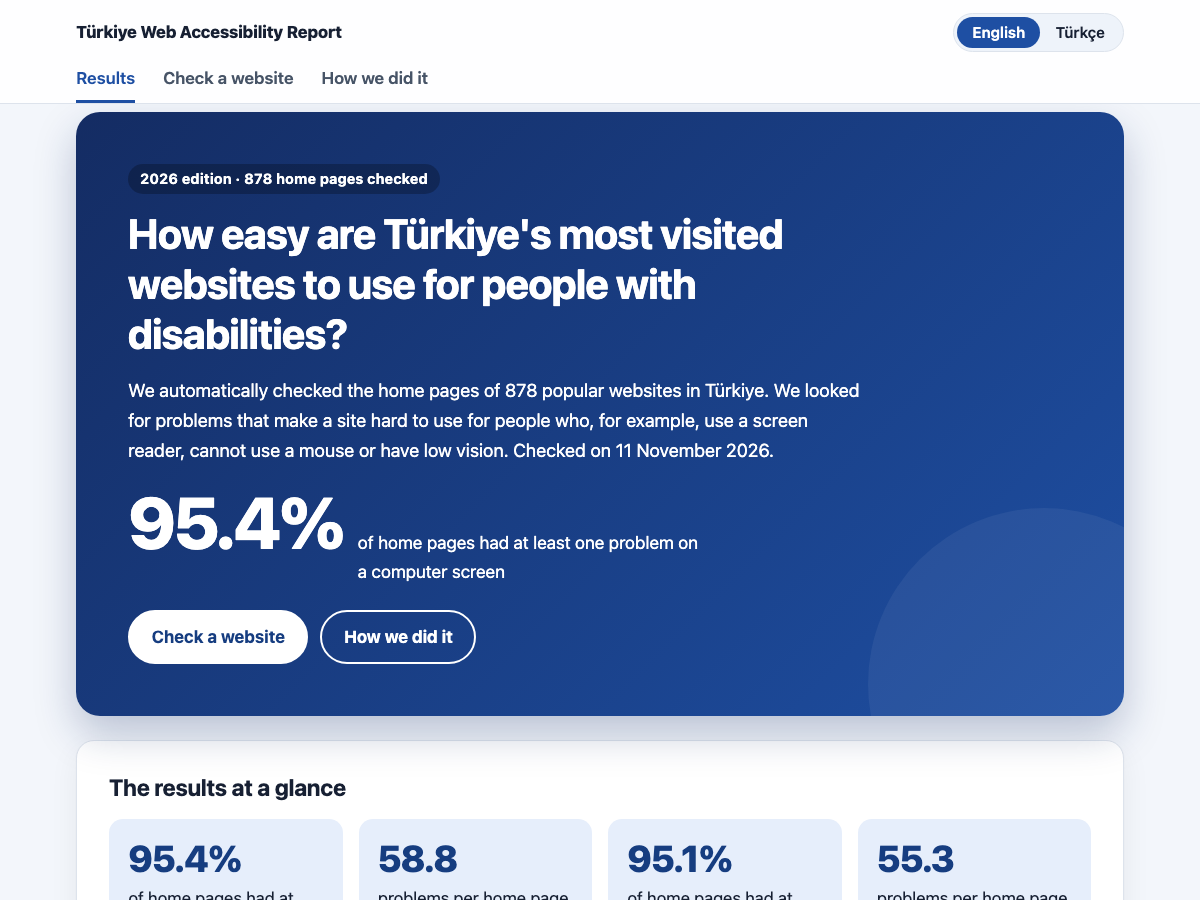
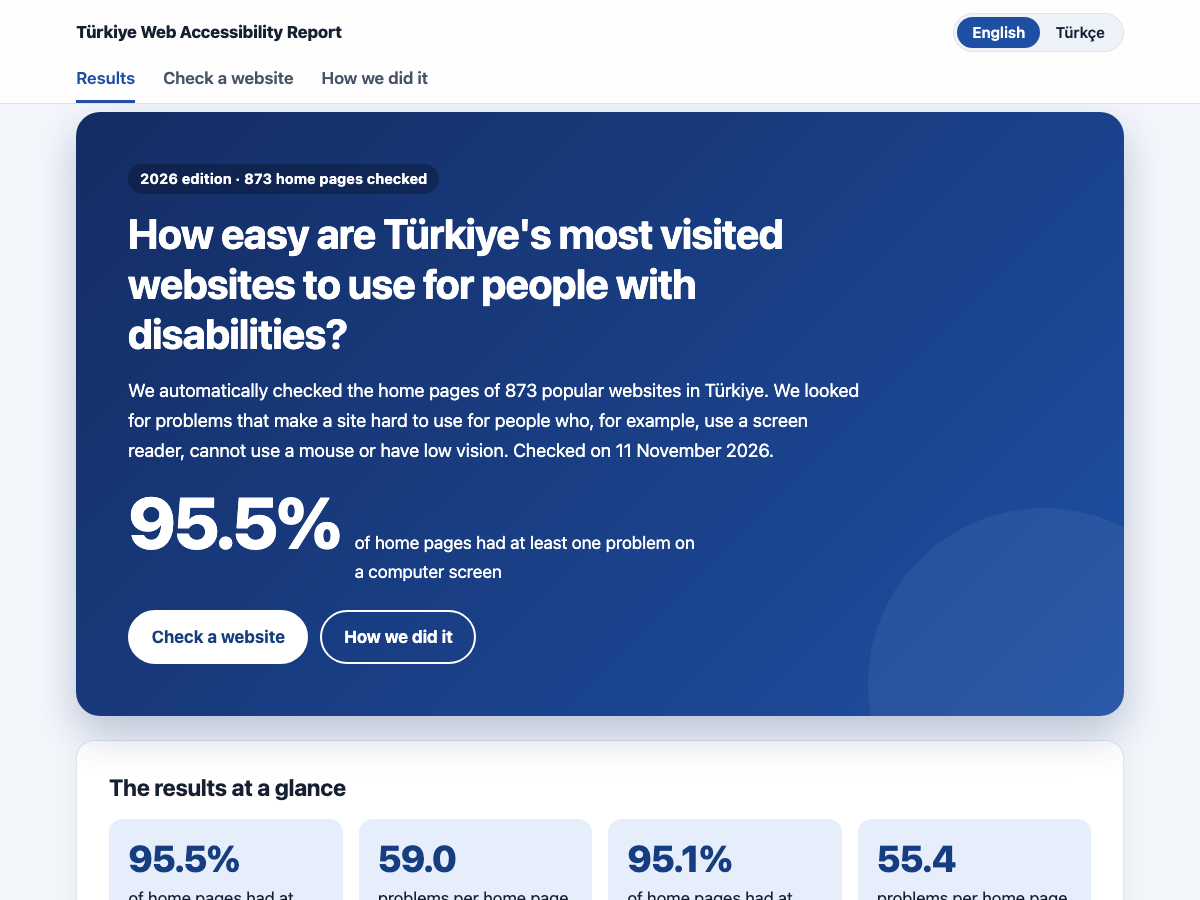
feat: remove personal-name domains from all published data
- data/exclude-hashed.csv keeps domains that are a person's name out of the list, scans and every
  published file, storing only SHA-256 hashes so the names never appear in the repository
- the 2026 data, report, lookup and run record no longer contain them (995 sites, 873 checked);
  methodology (EN + TR) and README explain the change and show the updated numbers
- tests for the domain hash and the hidden-domain filter

diff --git a/tests/A11yReport.Tests/Unit/DomainHashTests.cs b/tests/A11yReport.Tests/Unit/DomainHashTests.cs
@@ -1,0 +1,42 @@
+using A11yReport.Core.Sites;
+
+namespace A11yReport.Tests.Unit;
+
+public sealed class DomainHashTests
+{
+    [Fact]
+    public void Of_IsLowercaseSha256_AndIgnoresCaseAndSpaces()
+    {
+        // Expected value from: printf 'example.com.tr' | shasum -a 256
[1 lines of base64/hex data omitted]
+
+        Assert.Equal(Expected, DomainHash.Of("example.com.tr"));
+        Assert.Equal(Expected, DomainHash.Of(" Example.COM.tr "));
+    }
+
+    [Fact]
+    public void Hidden_ReturnsOnlyDomainsWhoseHashIsListed()
+    {
+        var hashes = new HashSet<string> { DomainHash.Of("person-name.com.tr") };
+
+        var hidden = DomainHash.Hidden(["shop.com.tr", "person-name.com.tr"], hashes);
+
+        Assert.Equal(["person-name.com.tr"], hidden);
+    }
+
+    [Fact]
+    public void LoadHashes_ReadsTheSha256Column()
+    {
+        var path = Path.GetTempFileName();
+        try
+        {
+            File.WriteAllText(path, "sha256,reason\nABC123,test\n");
+
+            Assert.Equal(["abc123"], SiteListFiles.LoadHashes(path));
+        }
+        finally
+        {
+            File.Delete(path);
+        }
+    }
+}

diff --git a/src/A11yReport.Core/Sites/SiteListFiles.cs b/src/A11yReport.Core/Sites/SiteListFiles.cs
@@ -11,6 +11,7 @@ public static class SiteListFiles
     private const string BucketColumn = "rank_bucket";
     private const string SectorColumn = "sector";
     private const string NotesColumn = "notes";
+    private const string HashColumn = "sha256";
 
     public const string NeedsReviewNote = "auto: needs review";
 
@@ -25,6 +26,20 @@ public static class SiteListFiles
             .Select(row => DomainKey.FromHost(row.GetValueOrDefault(DomainColumn, string.Empty)))
             .Where(domain => domain.Length > 0)
             .ToHashSet(StringComparer.OrdinalIgnoreCase);
+    }
+
+    /// <summary>Reads data/exclude-hashed.csv: one SHA-256 domain hash per row (column "sha256").</summary>
+    public static IReadOnlySet<string> LoadHashes(string path)
+    {
+        if (!File.Exists(path))
+        {
+            return new HashSet<string>();
+        }
+
+        return CsvFile.Read(path)
+            .Select(row => row.GetValueOrDefault(HashColumn, string.Empty).Trim().ToLowerInvariant())
+            .Where(hash => hash.Length > 0)
+            .ToHashSet(StringComparer.Ordinal);
     }
 
     public static IReadOnlyList<SectorAssignment> LoadSectors(string path)

diff --git a/src/A11yReport.Scanner/ScanOptions.cs b/src/A11yReport.Scanner/ScanOptions.cs
@@ -83,13 +83,16 @@ public sealed class DataOptions
 
     /// <summary>Domains left out of the report on purpose (gambling, adult, piracy), with a reason per row.</summary>
     public string ExcludeFile { get; set; } = string.Empty;
+
+    /// <summary>SHA-256 hashes of domains that are never listed, scanned or published (for example a person's name).</summary>
+    public string ExcludeHashedFile { get; set; } = string.Empty;
     public string OptOutFile { get; set; } = string.Empty;
     public string OtherTldCandidatesFile { get; set; } = string.Empty;
     public int MaxSites { get; set; }
     public int OtherTldCandidateMaxBucket { get; set; }
 
     public bool IsValid() =>
-        new[] { SitesFile, SitesSourceFile, SectorsFile, IncludeFile, ExcludeFile, OptOutFile, OtherTldCandidatesFile }
+        new[] { SitesFile, SitesSourceFile, SectorsFile, IncludeFile, ExcludeFile, ExcludeHashedFile, OptOutFile, OtherTldCandidatesFile }
             .All(path => !string.IsNullOrWhiteSpace(path))
         && MaxSites > 0
         && OtherTldCandidateMaxBucket > 0;

diff --git a/src/A11yReport.Core/Sites/DomainHash.cs b/src/A11yReport.Core/Sites/DomainHash.cs
@@ -1,0 +1,18 @@
+using System.Security.Cryptography;
+using System.Text;
+
+namespace A11yReport.Core.Sites;
+
+/// <summary>
+/// SHA-256 of a domain key, as lowercase hex. Used for lookup file names and for the hidden-domain
+/// list, so that domains we must not publish (for example a person's name) never appear in the repository.
+/// </summary>
+public static class DomainHash
+{
+    public static string Of(string domain) =>
+        Convert.ToHexStringLower(SHA256.HashData(Encoding.UTF8.GetBytes(domain.Trim().ToLowerInvariant())));
+
+    /// <summary>The domains from <paramref name="domains"/> whose hash is in <paramref name="hiddenHashes"/>.</summary>
+    public static IReadOnlySet<string> Hidden(IEnumerable<string> domains, IReadOnlySet<string> hiddenHashes) =>
+        domains.Where(domain => hiddenHashes.Contains(Of(domain))).ToHashSet(StringComparer.OrdinalIgnoreCase);
+}

diff --git a/src/A11yReport.Site/SiteOptions.cs b/src/A11yReport.Site/SiteOptions.cs
@@ -16,6 +16,9 @@ public sealed class SiteOptions
     /// <summary>Domains never offered as lookup suggestions (for example a person's own name). Typing the full address still works.</summary>
     public string SuggestExcludeFile { get; set; } = string.Empty;
 
+    /// <summary>SHA-256 hashes of domains left out of every published page and file.</summary>
+    public string ExcludeHashedFile { get; set; } = string.Empty;
+
     public bool IsValid() =>
-        new[] { OutputFolder, MethodologyFile, MethodologyFileTurkish, OptOutFile, RepositoryUrl, ExplanationsFile, SuggestExcludeFile }.All(value => !string.IsNullOrWhiteSpace(value));
+        new[] { OutputFolder, MethodologyFile, MethodologyFileTurkish, OptOutFile, RepositoryUrl, ExplanationsFile, SuggestExcludeFile, ExcludeHashedFile }.All(value => !string.IsNullOrWhiteSpace(value));
 }

diff --git a/src/A11yReport.Scanner/Commands/BuildListCommand.cs b/src/A11yReport.Scanner/Commands/BuildListCommand.cs
@@ -24,7 +24,12 @@ public sealed class BuildListCommand(IOptions<DataOptions> options)
 
         var origins = CruxReader.Read(snapshotPath);
         var include = SiteListFiles.LoadDomains(_data.IncludeFile);
-        var excluded = SiteListFiles.LoadDomains(_data.OptOutFile).Union(SiteListFiles.LoadDomains(_data.ExcludeFile)).ToHashSet();
+        var hidden = DomainHash.Hidden(origins.Select(origin => DomainKey.FromHost(origin.Origin.Host)).Distinct(),
+            SiteListFiles.LoadHashes(_data.ExcludeHashedFile));
+        var excluded = SiteListFiles.LoadDomains(_data.OptOutFile)
+            .Union(SiteListFiles.LoadDomains(_data.ExcludeFile))
+            .Union(hidden)
+            .ToHashSet();
         var result = SiteListBuilder.Build(origins, include, excluded, _data.MaxSites);
         var candidates = result.Sites;
 

diff --git a/src/A11yReport.Site/Lookup/LookupFiles.cs b/src/A11yReport.Site/Lookup/LookupFiles.cs
@@ -1,6 +1,5 @@
-using System.Security.Cryptography;
-using System.Text;
 using System.Text.Encodings.Web;
+using A11yReport.Core.Sites;
 using System.Text.Json;
 using System.Text.Unicode;
 
@@ -20,8 +19,7 @@ public static class LookupFiles
         Encoder = JavaScriptEncoder.Create(UnicodeRanges.All),
     };
 
-    public static string FileNameFor(string domain) =>
-        Convert.ToHexStringLower(SHA256.HashData(Encoding.UTF8.GetBytes(domain))) + ".json";
+    public static string FileNameFor(string domain) => DomainHash.Of(domain) + ".json";
 
     /// <summary>Replaces the whole folder, so results of sites that opted out since the last run disappear.</summary>
     public static void WriteAll(string siteFolder, IEnumerable<LookupSite> sites)

diff --git a/src/A11yReport.Site/Program.cs b/src/A11yReport.Site/Program.cs
@@ -43,7 +43,8 @@ if (input is null)
 }
 
 var siteOptions = host.Services.GetRequiredService<IOptions<SiteOptions>>().Value;
-var optOut = SiteListFiles.LoadDomains(siteOptions.OptOutFile);
+var hidden = DomainHash.Hidden(input.Value.Sites.Select(site => site.Domain), SiteListFiles.LoadHashes(siteOptions.ExcludeHashedFile));
+var optOut = SiteListFiles.LoadDomains(siteOptions.OptOutFile).Union(hidden).ToHashSet(StringComparer.OrdinalIgnoreCase);
 var data = ReportBuilder.Build(input.Value.Run, input.Value.Sites, optOut);
 var ruleNames = RuleNames.From(ExplanationFile.Load(siteOptions.ExplanationsFile));
 var lookupSites = LookupBuilder.Build(input.Value.Run, input.Value.Sites, optOut, ruleNames);

diff --git a/src/A11yReport.Scanner/Commands/ScanRunCommand.cs b/src/A11yReport.Scanner/Commands/ScanRunCommand.cs
@@ -72,7 +72,8 @@ public sealed class ScanRunCommand(
 
     private RunPlan BuildPlan(ScanArgs args)
     {
-        var sites = SiteListFiles.LoadSites(_data.SitesFile);
+        var hidden = SiteListFiles.LoadHashes(_data.ExcludeHashedFile);
+        var sites = SiteListFiles.LoadSites(_data.SitesFile).Where(site => !hidden.Contains(DomainHash.Of(site.Domain))).ToList();
         var selected = args.Limit is { } limit ? sites.Take(limit).ToList() : sites;
         var source = SiteListSource.Load(_data.SitesSourceFile);
         return new RunPlan(args.RunName, selected, SiteListFiles.LoadDomains(_data.OptOutFile),

diff --git a/docs/methodology.tr.md b/docs/methodology.tr.md
@@ -153,7 +153,7 @@ Tam tarama (`2026-full`, tarama kaydı `data/runs/2026-full.json`), listedeki 1.
 
 | Sonuç | Site |
 |---|---|
-| Kontrol edildi | 878 |
+| Kontrol edildi | 873 |
 | İsteği reddetti veya erişilemedi (57 × HTTP 403, 1 × 429, 1 × 503, 1 reddedilen bağlantı) | 60 |
 | Zamanında yüklenmedi | 33 |
 | Güvenli bağlantı (TLS) kurulamadı | 11 |
@@ -173,14 +173,20 @@ Bu taramayla ilgili notlar:
   ve taramaya kaldığı yerden devam ettik; bitmiş 586 site yeniden taranmadı. İki oturum ve
   ayarları tarama kaydında yer alır. Tarayıcı durduğunda işlenmekte olan birkaç sitenin istekleri
   sayılmadı; bu siteler devam ederken yeniden tarandı.
-- **Kontrol edilen sayfaların %44,1'i**, sayfa hazır olduktan 10 saniye sonra ek içerik yüklemeyi
+- **Taramadan sonra 5 site çıkarıldı:** Listedeki beş alan adı bir kişinin kendi adıdır. Kişisel
+  verileri korumak için 15 Kasım 2026'da site listesinden, rapordan, site sorgulamadan ve yayımlanan
+  tarama kaydından çıkarıldılar. Bu sayfadaki ve rapordaki sayılar onları içermez (995 site, 873
+  kontrol edilen sayfa); yukarıdaki istek toplamları ise onları içerir, çünkü bu istekler yapıldı.
+  Alan adları yalnızca SHA-256 özetleri olarak `data/exclude-hashed.csv` dosyasında tutulur; böylece
+  gelecekteki listelere de alınmazlar.
+- **Kontrol edilen sayfaların %44,3'ü**, sayfa hazır olduktan 10 saniye sonra ek içerik yüklemeyi
   (tarayıcının load olayı) bitirmemişti. Yine de kontrol edildiler; bkz. "Her sayfa nasıl
   taranır".
 - **Ortalamalar ve uç değerler:** Ortalama, aritmetik ortalamadır. Sayfa başına tespit edilen hata
   sayısı çok değişkendir: kontrol edilen ana sayfaların yarısında 29 veya daha az (ortanca),
-  %90'ında 113 veya daha az hata vardı; tek bir sayfada 5.911 hata vardı. 40 sayfada (%4,6) hiç
+  %90'ında 113 veya daha az hata vardı; tek bir sayfada 5.911 hata vardı. 39 sayfada (%4,5) hiç
   hata yoktu.
-- **Olası yer tutucu sayfalar:** Kontrol edilen 7 sayfa beşten az kaynak yükledi. Bunların bir
+- **Olası yer tutucu sayfalar:** Kontrol edilen 6 sayfa beşten az kaynak yükledi. Bunların bir
   kısmı gerçek ana sayfa yerine bir bot kontrolü veya bakım sayfası göstermiş olabilir. Bunu
   güvenilir biçimde ayırt edemediğimiz için kontrol edilmiş sayıldılar.
 
@@ -254,8 +260,8 @@ gösterir: hangi otomatik kuralların başarısız olduğu, kaç öğenin etkile
 başlık bilgileri. Yalnızca kural adlarını ve sayıları gösterir, sayfanın HTML'ini göstermez. Yazmaya
 başlayınca sayfa, kontrol edilen siteler listesinden eşleşen alan adlarını alfabetik sırayla önerir;
 öneriler hiçbir sonuç göstermez, bu yüzden bir sıralama gibi okunamaz. Bir kişinin kendi adı olan
-alan adları önerilere alınmaz (`data/suggest-exclude.csv`) ve yalnızca tam adres yazılarak
-bulunur. Her sonuç, alan adının SHA-256 özetiyle adlandırılmış bir dosyada saklanır. Taranan alan
+alan adları hiç yayımlanmaz (bkz. "Tam tarama"); `data/suggest-exclude.csv` başka alan adlarını da
+önerilerin dışında tutmak için kullanılabilir. Her sonuç, alan adının SHA-256 özetiyle adlandırılmış bir dosyada saklanır. Taranan alan
 adlarının listesi, tekrarlanabilirlik için kaynak depoda da herkese açıktır.
 
 ## Hata türlerinin Türkçe açıklamaları

diff --git a/docs/methodology.md b/docs/methodology.md
@@ -145,7 +145,7 @@ the list on 11 November 2026 between 14:59 and 18:18 Türkiye time (UTC+3), with
 
 | Result | Sites |
 |---|---|
-| Checked | 878 |
+| Checked | 873 |
 | Refused the request or unreachable (57 × HTTP 403, 1 × 429, 1 × 503, 1 refused connection) | 60 |
 | Did not load in time | 33 |
 | Secure connection (TLS) failed | 11 |
@@ -165,13 +165,19 @@ Notes on this run:
   the run; the 586 finished sites were not scanned again. Both sessions and their settings are in
   the run record. The requests of the few sites that were in progress when the scanner stopped
   are not counted; those sites were scanned again on resume.
-- **44.1% of the checked pages** had not finished loading extra content (the browser's load
+- **5 sites removed after the run:** five domains in the list are a person's own name. To protect
+  personal data they were removed on 15 November 2026 from the site list, the report, the lookup
+  and the published run record. The numbers on this page and in the report exclude them (995
+  sites, 873 checked); the request totals above include them, because those requests were made.
+  Their domains are kept only as SHA-256 hashes in `data/exclude-hashed.csv`, so they are also
+  left out of future lists.
+- **44.3% of the checked pages** had not finished loading extra content (the browser's load
   event) 10 seconds after the page was ready. They were checked anyway; see "How each page is
   scanned".
 - **Averages and outliers:** the average is the arithmetic mean. The number of detected failures
   per page varies a lot: half of the checked home pages had 29 or fewer (median), 90% had 113 or
-  fewer, and one page had 5,911. 40 pages (4.6%) had none.
-- **Possible placeholder pages:** 7 checked pages loaded fewer than five resources. Some of them
+  fewer, and one page had 5,911. 39 pages (4.5%) had none.
+- **Possible placeholder pages:** 6 checked pages loaded fewer than five resources. Some of them
   may have shown a bot check or maintenance page instead of the real home page. We could not
   tell this reliably, so they are counted as checked.
 
@@ -244,8 +250,8 @@ address: which automated rules failed, how many elements were affected, and the 
 and heading facts. It shows rule names and counts only, not the HTML of the page. While typing,
 the page suggests matching domains from the list of checked sites, in alphabetical order; the
 suggestions show no results, so they cannot be read as a ranking. Domains that are a person's
-own name are left out of the suggestions (`data/suggest-exclude.csv`) and are found only by
-typing the full address. Each result is stored in a file named after the SHA-256 hash of the
+own name are not published at all (see "Full run"); `data/suggest-exclude.csv` can keep other
+domains out of the suggestions. Each result is stored in a file named after the SHA-256 hash of the
 domain. The list of scanned domains is also public in the source repository, for
 reproducibility.
 

diff --git a/CLAUDE.md b/CLAUDE.md
@@ -170,8 +170,9 @@ docs/methodology.md       Methodology and ethics (source for the methodology pag
   says what was wrong (field `Notes`, never published). Owner approved all 27 unchanged
   (asked Claude to set the status on their behalf, 2026-11-11).
 - Stage 7 (full run, Turkish site, press summary, LinkedIn draft) — built 2026-11-12, NOT published.
-  Run `2026-full` Completed 2026-11-11 18:18 (TR): 878 Done of 1,000; 139,732 requests. Desktop: 95.4%
-  of pages with a failure, mean 58.8 (median 29, one page 5,911). Methodology has a "Full run" section
+  Run `2026-full` Completed 2026-11-11 18:18 (TR): 878 Done of 1,000; 139,732 requests. After removing 5
+  personal-name domains (2026-11-15): 995 listed, 873 checked; desktop 95.5% with a failure, mean 59.0
+  (median 29, one page 5,911). Methodology has a "Full run" section
   (EN + TR). Press summaries `docs/press/press-summary.{tr,en}.md`, LinkedIn draft
   `docs/press/linkedin-post.tr.md`. Generate: `dotnet run --project src/A11yReport.Site -- --run 2026-full`.
   Details of the run:
@@ -207,6 +208,12 @@ docs/methodology.md       Methodology and ethics (source for the methodology pag
   (domain, reason) keeps domains that are a person's own name out of the suggestions (KVKK caution);
   they are still found by typing the full address. Decided after discussing the legal side; no legal
   conclusion was given, only KVKK Art. 3 cited.
+- **Personal-name domains removed (owner request, 2026-11-15):** 5 domains that are a person's name are
+  out of everything: list, sectors, CrUX copy, run manifest (rows removed, `publicationNote` added,
+  totals unchanged), report, lookup, suggestions. `data/exclude-hashed.csv` holds only their SHA-256
+  hashes (`DomainHash.Of`), honored by build-list, scan and the site generator, so names never appear
+  in the repository. Main and gh-pages histories rewritten without them (force push, owner approved;
+  backups in `output/backup/`). The scrub script with the names lives outside the repo.
 - **Publishing (owner's choice: commit generated HTML):** GitHub Pages serves the `gh-pages` branch
   (root). That branch holds only the generated files plus `.nojekyll`. To republish: generate the
   site, copy `site/*` into a clean checkout of `gh-pages`, commit ("Publish report site (run …)",
